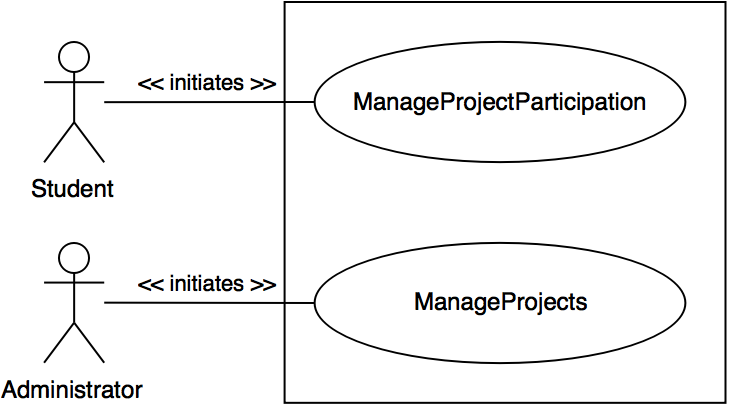
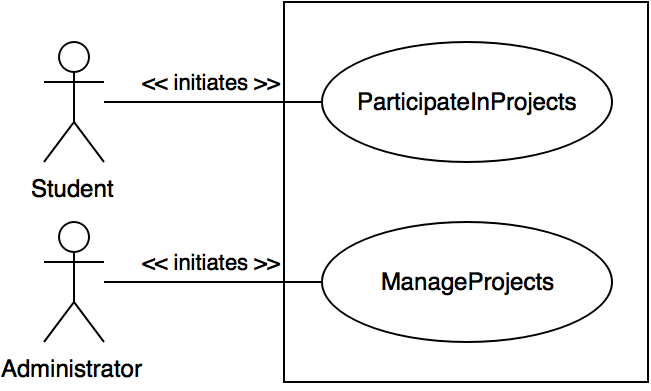
Updates to the diagrams, and use cases

diff --git a/docs/main.tex b/docs/main.tex
@@ -161,6 +161,7 @@ the flows for the various possible states of the system.
 
 \begin{table}[H]
 	\caption{Functional Requirements}
+	\vspace{1em}
 	\begin{tabu} to \textwidth {>{\bf}lX}
 		F-01 & Students can add themselves to any number of projects. \\
 		F-02 & Students can remove themselves from a project. \\
@@ -184,6 +185,7 @@ the flows for the various possible states of the system.
 
 \begin{table}[H]
 	\caption{Non-Functional Requirements}
+	\vspace{1em}
 	\begin{tabu} to \textwidth {>{\bf}l >{\it}l X}
 		NF-01 & Usability & Keyboard short cuts. \\
 		NF-02 & Usability & All error messages should be descriptive and suggest appropriate solutions.\\
@@ -213,27 +215,29 @@ the flows for the various possible states of the system.
 
 \begin{table}[H]
 	\caption{High-Level Use Case Descriptions}
-	\begin{tabu} to \textwidth {>{}l >{\bf}l X}
-		UC-01 & ManageProjectParticipation & description blah blah \\
+	\vspace{1em}
+	\begin{tabu} to \textwidth {l >{\bf}l X}
+		UC-01 & ParticipateInProjects & description blah blah \\
 		UC-02 & ManageProjects & blah \\
 	\end{tabu}
 \end{table}
 
 \begin{figure}[H]
 	\centering{}
-	\includegraphics[scale=0.23]{imgs/detailed-administrator-use-case-diagram.png}
+	\includegraphics[scale=0.26]{imgs/detailed-administrator-use-case-diagram.png}
 	\caption{Detailed Administrator Use Case Diagram}
 \end{figure}
 
 \begin{figure}[H]
 	\centering{}
-	\includegraphics[scale=0.23]{imgs/detailed-student-use-case-diagram.png}
+	\includegraphics[scale=0.3]{imgs/detailed-student-use-case-diagram.png}
 	\caption{Detailed Student Use Case Diagram}
 \end{figure}
 
 \begin{table}[H]
 	\caption{Detailed Use Case Descriptions}
-	\begin{tabu} to \textwidth {>{}l >{\bf}l X}
+	\vspace{1em}
+	\begin{tabu} to \textwidth {l >{\bf}l X}
 		UC-03 & ViewPPIDDetails & stuff\\
 		UC-04 & CreateNewProject & The Administrator creates a new instance of a project.\\
 		UC-05 & LaunchPPID & The Administrator applies the PPID Algorithm to a specified project.\\
@@ -241,17 +245,14 @@ the flows for the various possible states of the system.
 		UC-07 & EditProject & The Administrator modifies the parameters of a specified project.\\
 		UC-08 & AddStudent & The Administrator adds a Student to the current project.\\
 		UC-09 & RemoveStudent & The Administrator removes a Student from the current project.\\
-		UC-10 & FileError & There was an error in processing the file (generalizes FileOpenError, FileInputError,
-		FileOutputError, FileFormatError). The system reports the specific error to user and aborts the operation.\\
-		UC-11 & FileOpenError & The system reports that the selected file could not be opened.\\
-		UC-12 & FileInputError & The system reports that the selected file could not be read.\\
-		UC-13 & FileOutputError & The system reports that the selected file could not be written to.\\
-		UC-14 & FileFormatError & The system reports that the selected file is corrupted.\\
+		UC-10 & SaveError & There was an error during saving (generalizes WriteError, ReadError, OpenError, CloseError). The system reports the specific error to the user and aborts the operation.\\
+		UC-11 & OpenError & The system reports that the selected file could not be opened.\\
+		UC-12 & ReadError & The system reports that the selected file could not be read.\\
+		UC-13 & WriteError & The system reports that the selected file could not be written to.\\
+		UC-14 & CloseError & The system reports that the selected file could not be closed.\\
 		UC-15 & InvalidInputError & The system reports that the given value is invalid.\\
-		UC-16 & NoStudentSelectedError & The system reports that a student was not selected to carry 
-		out the selected operation on.\\
-		UC-17 & InsufficientStudentsError & The system reports that there are not enough 
-		students registered in project to run the PPID algorithm.\\
+		UC-16 & InvalidStudentError & The system reports that a student was not selected to carry out the selected operation on.\\
+		UC-17 & InsufficientStudentsError & The system reports that there are not enough students registered in project to run the PPID algorithm.\\
 		UC-18 & JoinProject & The student adds themselves to an existing project.\\
 		UC-19 & EditProfile & The student modifies the parameters of their profile.\\
 		UC-20 & LeaveProject & The student removes themselves from an existing project.\\
@@ -262,7 +263,7 @@ the flows for the various possible states of the system.
 	\begin{tabu} to \textwidth {>{\it}l X}
 		\toprule
 		Use Case Identifier & UC-01 \\
-		Name & {\bf ManageProjectParticipation} \\
+		Name & {\bf ParticipateInProjects} \\
 		Participating Actors & Initiated by Student \\
 
 		Flow of Events & 
@@ -579,7 +580,7 @@ the flows for the various possible states of the system.
 	\begin{tabu} to \textwidth {>{\it}l X}
 		\toprule
 		Use Case Identifier & UC-10 \\
-		Name & {\bf FileError} \\
+		Name & {\bf SaveError} \\
 		Participating Actors & Administrator \\
 		Flow of Events & 
 	    \begin{enumerate}[topsep=-1em]
@@ -611,7 +612,7 @@ the flows for the various possible states of the system.
 	\begin{tabu} to \textwidth {>{\it}l X}
 		\toprule
 		Use Case Identifier & UC-11 \\
-		Name & {\bf FileOpenError} \\
+		Name & {\bf OpenError} \\
 		Participating Actors & Administrator \\
 		Flow of Events & 
 	    \begin{enumerate}[topsep=-1em]
@@ -646,7 +647,7 @@ the flows for the various possible states of the system.
 	\begin{tabu} to \textwidth {>{\it}l X}
 		\toprule
 		Use Case Identifier & UC-12 \\
-		Name & {\bf FileInputError} \\
+		Name & {\bf ReadError} \\
 		Participating Actors & Administrator \\
 		Flow of Events & 
 	    \begin{enumerate}[topsep=-1em]
@@ -681,7 +682,7 @@ the flows for the various possible states of the system.
 	\begin{tabu} to \textwidth {>{\it}l X}
 		\toprule
 		Use Case Identifier & UC-13 \\
-		Name & {\bf FileOutputError} \\
+		Name & {\bf WriteError} \\
 		Participating Actors & Administrator \\
 		Flow of Events & 
 	    \begin{enumerate}[topsep=-1em]
@@ -716,7 +717,7 @@ the flows for the various possible states of the system.
 	\begin{tabu} to \textwidth {>{\it}l X}
 		\toprule
 		Use Case Identifier & UC-14 \\
-		Name & {\bf FileFormatError} \\
+		Name & {\bf CloseError} \\
 		Participating Actors & Administrator \\
 		Flow of Events & 
 	    \begin{enumerate}[topsep=-1em]
@@ -751,7 +752,7 @@ the flows for the various possible states of the system.
 	\begin{tabu} to \textwidth {>{\it}l X}
 		\toprule
 		Use Case Identifier & UC-15 \\
-		Name & {\bf InvalidFormatError} \\
+		Name & {\bf InvalidInputError} \\
 		Participating Actors & Administrator \\
 		Flow of Events & 
 	    \begin{enumerate}[topsep=-1em]
@@ -786,7 +787,7 @@ the flows for the various possible states of the system.
 	\begin{tabu} to \textwidth {>{\it}l X}
 		\toprule
 		Use Case Identifier & UC-16 \\
-		Name & {\bf NoStudentSelectedError} \\
+		Name & {\bf InvalidStudentError} \\
 		Participating Actors & Administrator \\
 		Flow of Events & 
 	    \begin{enumerate}[topsep=-1em]
